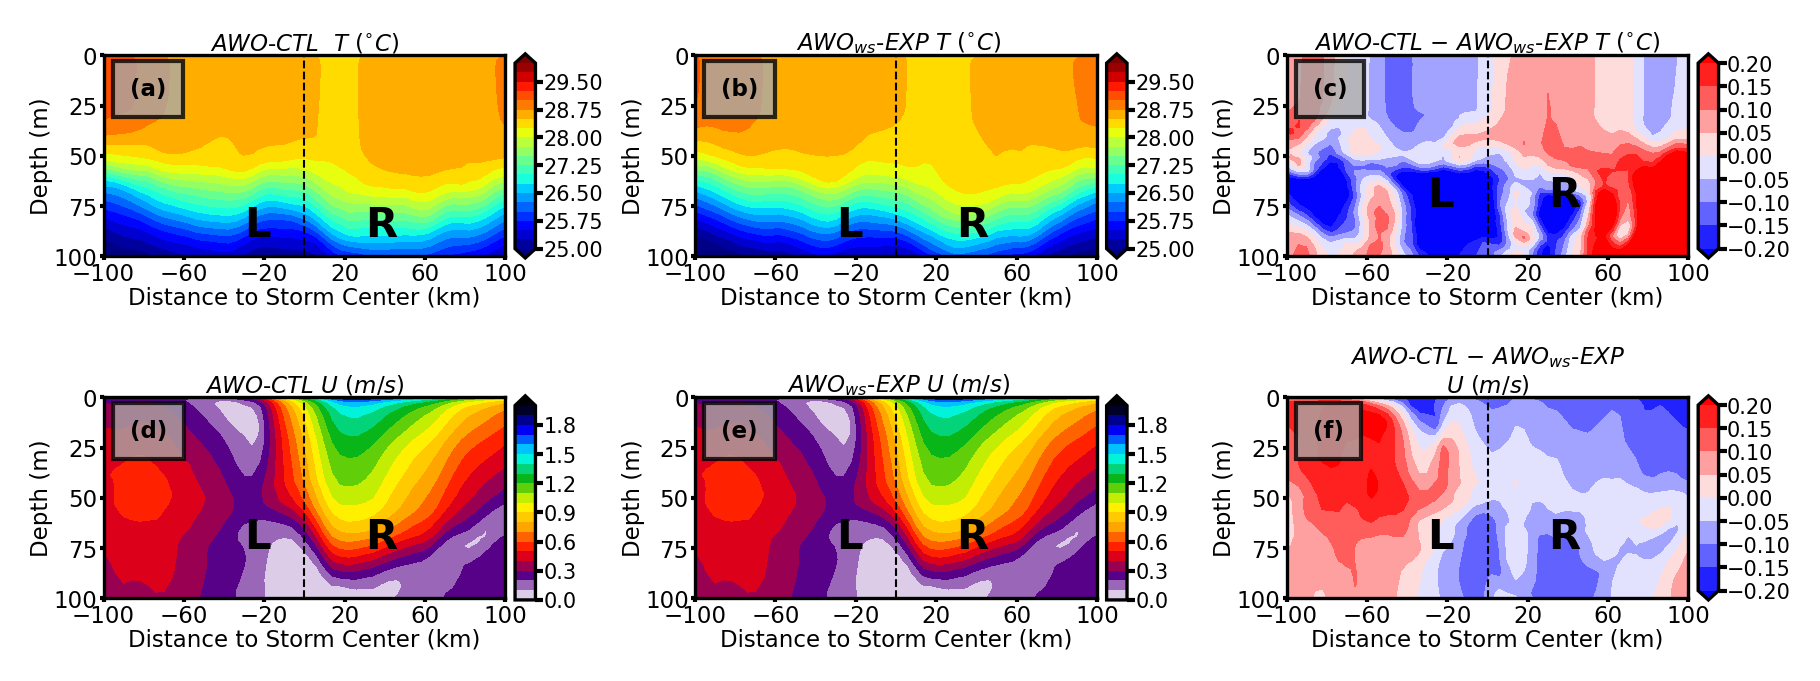
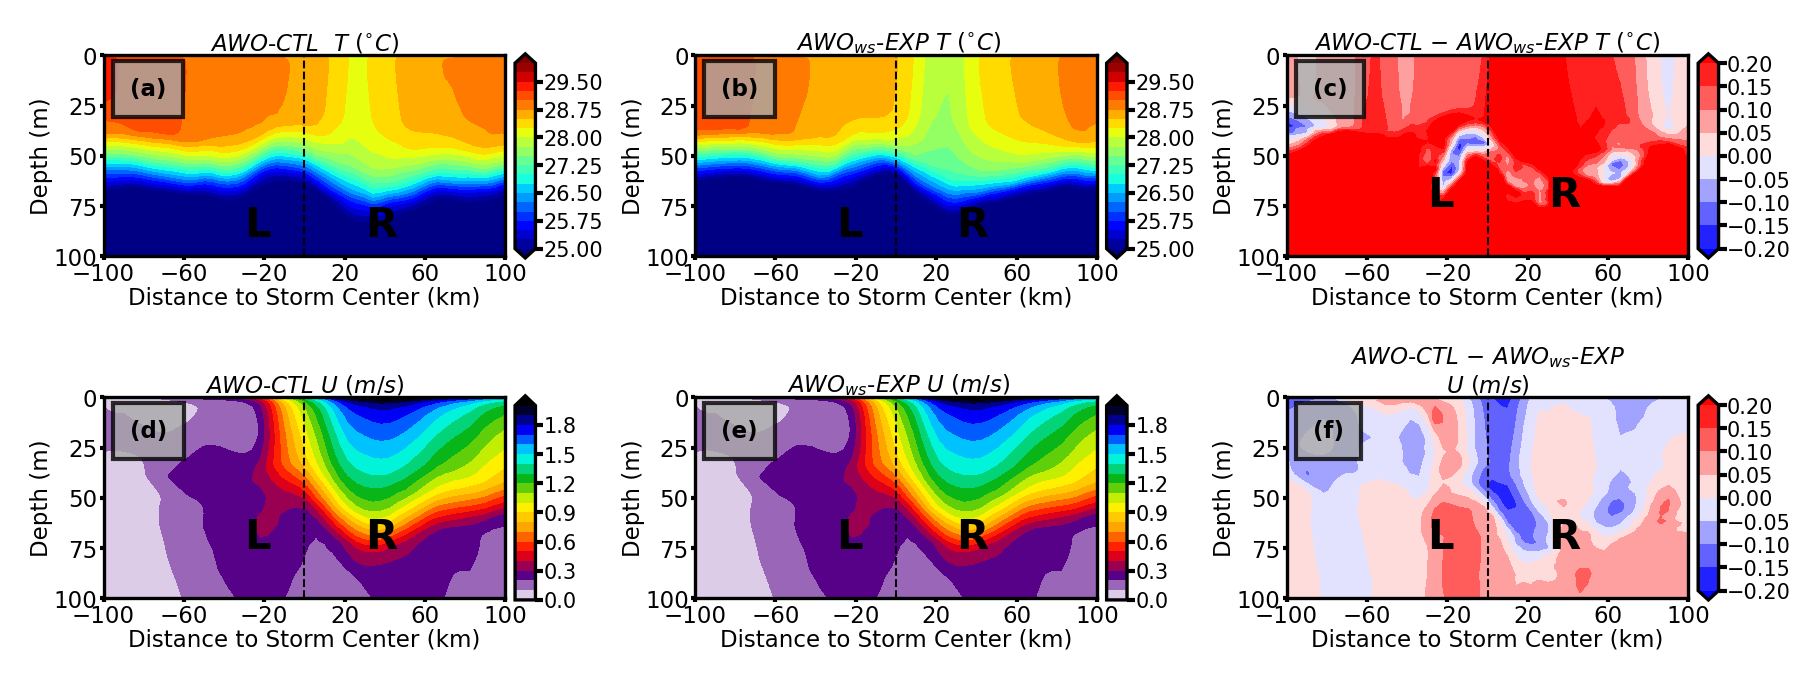
Made an additional Figure for a diff time period and also added the new corner label function for vert cross section

diff --git a/Scripts/fig4_vert_cross_section_temp_sfc.py b/Scripts/fig4_vert_cross_section_temp_sfc.py
@@ -5,7 +5,7 @@ import cmaps
 from helpers import *
 
 #Setting PATH of data and 
-PATH = '/home/orca/bkerns/projects/alton_storm_relative/'
+PATH = '/home/disk/orca/adaley17/Research/Stress_Separation/Hurricane_Earl/Notebooks/SST_Analysis/Composites/Data_Currents_Zlevels/'
 PNG='/home/disk/orca/adaley17/my_stuff/Publications/Air_Sea_Momentun_Exchange_Open_Ocean/Figures/'
 
 
@@ -27,6 +27,7 @@ awo_ws_curr = np.sqrt(ds_timemean_slice['u-vel_interp_awo_ws']**2 + ds_timemean_
 curr_levels = np.arange(0,2.10,0.10)
 sst_levels=np.arange(25, 30.25, 0.25)
 diff_levels=np.arange(-0.2,0.25,0.05)
+sst_diff_levels = np.arange(-0.6, 0.7, 0.1)
 
 #Colorbar Options
 size=0.25
@@ -69,7 +70,7 @@ ax1.set_aspect('equal')
 ax1.set_xlim([-100,100])
 ax1.set_ylim([100,1])
 cross_section_essential(30, 90, 10, 0.5)
-add_axis_labels(ax1, fontsize, labelpad, labelsize, xticks[::2], yticks)
+add_vertical_cross_section_axis_labels(ax1, fontsize, labelpad, labelsize, xticks[::2], yticks)
 ax1.set_title('$AWO$-$CTL$  $T$ ($^{\circ}C$)', fontsize=fontsize, pad=1)
 
 add_corner_label(ax1, x_pos, y_pos,'(a)', fontsize)
@@ -88,7 +89,7 @@ ax2.set_aspect('equal')
 ax2.set_xlim([-100,100])
 ax2.set_ylim([100,1])
 cross_section_essential(30, 90, 10, 0.5)
-add_axis_labels(ax2, fontsize, labelpad, labelsize, xticks[::2], yticks)
+add_vertical_cross_section_axis_labels(ax2, fontsize, labelpad, labelsize, xticks[::2], yticks)
 ax2.set_title(' $AWO_{ws}$-$EXP$ $T$ ($^{\circ}C$)', fontsize=fontsize, pad=1)
 
 add_corner_label(ax2, x_pos, y_pos,'(b)', fontsize)
@@ -98,7 +99,7 @@ ax3 = plt.subplot2grid(gridsize, (0, 2), colspan=1, rowspan=1)
 # ax3.pcolormesh(awo_X, awo_Y, awo_vcross_data['curr_speed'][0] - awo_ws_vcross_data['curr_speed'][0],
 #                   vmin=-0.5, vmax=0.5, cmap=cmaps.MPL_bwr, rasterized=True)
 temp_diff_diff = ax3.contourf(X, Y, awo_temp - awo_ws_temp,
-                  levels=diff_levels, extend='both', cmap=cmaps.MPL_bwr)
+                  levels=sst_diff_levels, extend='both', cmap=cmaps.MPL_bwr)
 
 # plt.clabel(temp_diff, inline = True, 
 #            fontsize=fontsize, fmt='%1.2f', colors = 'k')
@@ -112,7 +113,7 @@ ax3.set_aspect('equal')
 ax3.set_xlim([-100,100])
 ax3.set_ylim([100,1]) # Limits
 cross_section_essential(30, 75, 10, 0.5)
-add_axis_labels(ax3, fontsize, labelpad, labelsize, xticks[::2], yticks)
+add_vertical_cross_section_axis_labels(ax3, fontsize, labelpad, labelsize, xticks[::2], yticks)
 ax3.set_aspect('equal')
 
 ax3.set_title('$AWO$-$CTL$ $ - $ $AWO_{ws}$-$EXP$ $T$ ($^{\circ}C$)', loc='center', fontsize=fontsize, pad=1)
@@ -128,7 +129,7 @@ hcb = fig.colorbar(curr_awo,shrink=shrink, aspect=10, ax=ax4, pad=0.02)
 hcb.ax.tick_params(color='k', length=2.0, width=1.0, labelsize=5, pad=0.002)
 
 cross_section_essential(30, 75, 10, 0.5)
-add_axis_labels(ax4, fontsize, labelpad, labelsize, xticks[::2], yticks)
+add_vertical_cross_section_axis_labels(ax4, fontsize, labelpad, labelsize, xticks[::2], yticks)
 ax4.set_xlim([-100,100])
 ax4.set_ylim([100,0]) # Limits
 ax4.set_aspect('equal')
@@ -148,7 +149,7 @@ hcb = fig.colorbar(curr_awo_ws,shrink=shrink, aspect=10, ax=ax5, pad=0.02)
 hcb.ax.tick_params(color='k', length=2.0, width=1.0, labelsize=5, pad=0.002)
 
 cross_section_essential(30, 75, 10, 0.5)
-add_axis_labels(ax5, fontsize, labelpad, labelsize, xticks[::2], yticks)
+add_vertical_cross_section_axis_labels(ax5, fontsize, labelpad, labelsize, xticks[::2], yticks)
 
 ax5.set_aspect('equal')
 ax5.set_ylim([100,0]) # Limits
@@ -173,7 +174,7 @@ hcb.ax.tick_params(color='k', length=2.0, width=1.0, labelsize=5, pad=0.002)
 #             c='k', s=size,edgecolors='k', label='$AWO_{ws}$-$EXP$')
 
 cross_section_essential(30, 75, 10, 0.5)
-add_axis_labels(ax6, fontsize, labelpad, labelsize, xticks[::2], yticks)
+add_vertical_cross_section_axis_labels(ax6, fontsize, labelpad, labelsize, xticks[::2], yticks)
 
 ax6.set_aspect('equal')
 ax6.set_xlim([-100,100])
@@ -184,5 +185,5 @@ add_corner_label(ax6, x_pos, y_pos,'(f)', fontsize)
 
 fig.tight_layout(pad=0.5, w_pad=0.5, h_pad=-8)
 
-plt.savefig(PNG +'fig4_vert_cross_sfc_temp.png', dpi=300, bbox_inches='tight',
+plt.savefig(PNG +'fig4_vert_cross_sfc_temp_2010090100-2010090105.png', dpi=300, bbox_inches='tight',
                 facecolor='w', transparent=False)
